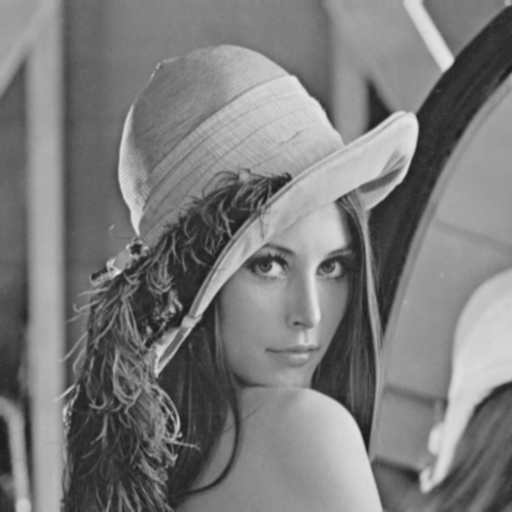
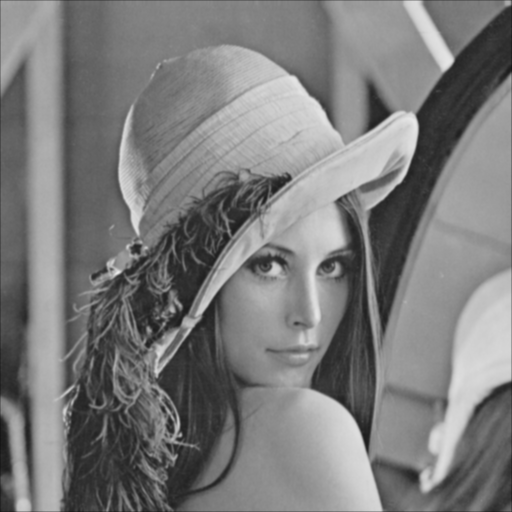
修改

Changed region(s): [[0.0, 0.0, 0.0312, 0.0312]]

diff --git a/lab1/assignment_to_be_released/HM1_Convolve.py b/lab1/assignment_to_be_released/HM1_Convolve.py
@@ -23,17 +23,22 @@ def padding(img, padding_size, type):
         padding_img[padding_size:H_padded - padding_size,
                     padding_size:W_padded - padding_size] = img
     elif type == "replicatePadding":
-        # generate the row indices of padding_img
-        row_idx = np.arange(H_padded) - padding_size
-        # [-padding_size, H + padding_size - 1]
-        row_idx = np.clip(row_idx, 0, H - 1)
-
-        # generate the colomn indices of padding_img
-        col_idx = np.arange(W_padded) - padding_size
-        # [-padding_size, W + padding_size - 1]
-        col_idx = np.clip(col_idx, 0, W - 1)
-
-        padding_img = img[np.ix_(row_idx, col_idx)]
+        # center
+        padding_img[padding_size:H_padded - padding_size,
+                    padding_size:W_padded - padding_size] = img
+        # edge
+        padding_img[0:padding_size, padding_size:W + padding_size] = img[0:1, :]  # up
+        padding_img[H + padding_size:, padding_size:W +
+                    padding_size] = img[-1:, :]  # down
+        padding_img[padding_size:H + padding_size,
+                    0:padding_size] = img[:, 0:1]  # left
+        padding_img[padding_size:H + padding_size,
+                    W + padding_size:] = img[:, -1:]  # right
+        # corner
+        padding_img[0:padding_size, 0:padding_size] = img[0, 0]  # left up
+        padding_img[0:padding_size, W + padding_size:] = img[0, -1]  # right up
+        padding_img[H + padding_size:, 0:padding_size] = img[-1, 0]  # left down
+        padding_img[H + padding_size:, W + padding_size:] = img[-1, -1]  # right down
 
     return padding_img
 

diff --git a/lab1/assignment_to_be_released/HM1_RANSAC.py b/lab1/assignment_to_be_released/HM1_RANSAC.py
@@ -19,8 +19,8 @@ if __name__ == "__main__":
     min_sample = 3
 
     # the minimal time that can guarantee the probability of at least one hypothesis does not contain any outliers is larger than 99.9%
-    sample_time = int(np.log(1 - confidence) /
-                      np.log(1 - (1 - outlier_ratio) ** min_sample))
+    sample_time = int(np.ceil(np.log(1 - confidence) /
+                              np.log(1 - (1 - outlier_ratio) ** min_sample)))
     distance_threshold = 0.05
 
     # sample points group
@@ -32,11 +32,13 @@ if __name__ == "__main__":
     vec1_in_plane = sample_group[:, 0] - sample_group[:, 1]
     vec2_in_plane = sample_group[:, 0] - sample_group[:, 2]
     normal_group = np.cross(vec1_in_plane, vec2_in_plane)  # (sample_time, 3)
+    normal_norm_group = np.sqrt(
+        np.sum(normal_group * normal_group, axis=1))  # (sample_time,)
     D_group = - np.sum(normal_group * sample_group[:, 0], axis=1)  # (sample_time,)
 
     # evaluate inliers (with point-to-plance distance < distance_threshold)
-    residual_group = np.dot(normal_group, noise_points.T) + \
-        D_group[:, None]  # (sample_time, 130)
+    residual_group = (normal_group @ noise_points.T + D_group[:, None])
+    residual_group = residual_group / normal_norm_group[:, None]  # (sample_time, 130)
     inliner_mask = (residual_group < distance_threshold) & (
         residual_group > -distance_threshold)
     inliner_tot_group = np.sum(inliner_mask, axis=1)  # (sample_time,)

diff --git a/lab1/assignment_to_be_released/HM1_HarrisCorner.py b/lab1/assignment_to_be_released/HM1_HarrisCorner.py
@@ -23,9 +23,10 @@ def corner_response_function(input_img, window_size, alpha, threshold):
     grad_x = Sobel_filter_x(input_img)
     grad_y = Sobel_filter_y(input_img)
 
-    I_xx = grad_x * grad_x
-    I_yy = grad_y * grad_y
-    I_xy = grad_x * grad_y
+    # Padding first to keep dims
+    I_xx = padding(grad_x * grad_x, window_size//2, "replicatePadding")
+    I_yy = padding(grad_y * grad_y, window_size//2, "replicatePadding")
+    I_xy = padding(grad_x * grad_y, window_size//2, "replicatePadding")
 
     window = np.ones((window_size, window_size))
     S_xx = convolve(I_xx, window)
